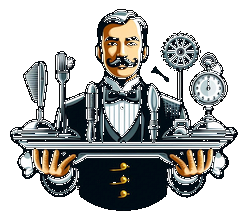
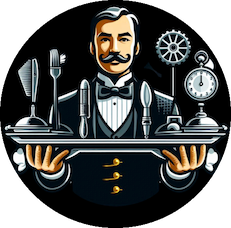
changement icone et correction pwa

diff --git a/public/sw.js b/public/sw.js
@@ -1,0 +1,145 @@
+// Service Worker pour À Votre Service PWA
+// Version: 1.0.0
+
+const CACHE_NAME = 'a-votre-service-v1';
+const urlsToCache = [
+  '/',
+  '/index.html',
+  '/manifest.json',
+  '/favicon-butler.ico',
+  '/images/majordome-hero.png',
+  '/icons/icon-192.png',
+  '/icons/icon-512.png'
+];
+
+// Installation du Service Worker
+self.addEventListener('install', (event) => {
+  console.log('Service Worker: Installation en cours...');
+  
+  event.waitUntil(
+    caches.open(CACHE_NAME)
+      .then((cache) => {
+        console.log('Service Worker: Cache ouvert');
+        return cache.addAll(urlsToCache);
+      })
+      .then(() => {
+        console.log('Service Worker: Ressources mises en cache');
+        // Force l'activation immédiate du nouveau service worker
+        return self.skipWaiting();
+      })
+      .catch((error) => {
+        console.error('Service Worker: Erreur lors de la mise en cache:', error);
+      })
+  );
+});
+
+// Activation du Service Worker
+self.addEventListener('activate', (event) => {
+  console.log('Service Worker: Activation en cours...');
+  
+  event.waitUntil(
+    caches.keys().then((cacheNames) => {
+      return Promise.all(
+        cacheNames.map((cacheName) => {
+          // Supprimer les anciens caches
+          if (cacheName !== CACHE_NAME) {
+            console.log('Service Worker: Suppression de l\'ancien cache:', cacheName);
+            return caches.delete(cacheName);
+          }
+        })
+      );
+    }).then(() => {
+      console.log('Service Worker: Activation terminée');
+      // Prendre le contrôle de tous les clients immédiatement
+      return self.clients.claim();
+    })
+  );
+});
+
+// Interception des requêtes réseau
+self.addEventListener('fetch', (event) => {
+  // Stratégie Cache First pour les ressources statiques
+  if (event.request.destination === 'image' || 
+      event.request.destination === 'script' || 
+      event.request.destination === 'style' ||
+      event.request.url.includes('/icons/') ||
+      event.request.url.includes('/images/')) {
+    
+    event.respondWith(
+      caches.match(event.request)
+        .then((response) => {
+          // Retourner la ressource du cache si disponible
+          if (response) {
+            return response;
+          }
+          
+          // Sinon, récupérer depuis le réseau et mettre en cache
+          return fetch(event.request).then((response) => {
+            // Vérifier si la réponse est valide
+            if (!response || response.status !== 200 || response.type !== 'basic') {
+              return response;
+            }
+            
+            // Cloner la réponse car elle ne peut être consommée qu'une fois
+            const responseToCache = response.clone();
+            
+            caches.open(CACHE_NAME)
+              .then((cache) => {
+                cache.put(event.request, responseToCache);
+              });
+            
+            return response;
+          });
+        })
+        .catch(() => {
+          // En cas d'erreur, retourner une réponse par défaut si nécessaire
+          console.log('Service Worker: Erreur lors de la récupération de:', event.request.url);
+        })
+    );
+  } else {
+    // Stratégie Network First pour les autres requêtes (API, HTML, etc.)
+    event.respondWith(
+      fetch(event.request)
+        .then((response) => {
+          // Mettre en cache les réponses HTML réussies
+          if (response.status === 200 && event.request.destination === 'document') {
+            const responseToCache = response.clone();
+            caches.open(CACHE_NAME)
+              .then((cache) => {
+                cache.put(event.request, responseToCache);
+              });
+          }
+          return response;
+        })
+        .catch(() => {
+          // En cas d'échec réseau, essayer de servir depuis le cache
+          return caches.match(event.request)
+            .then((response) => {
+              if (response) {
+                return response;
+              }
+              // Si pas de cache disponible, retourner la page d'accueil pour les requêtes de navigation
+              if (event.request.destination === 'document') {
+                return caches.match('/');
+              }
+            });
+        })
+    );
+  }
+});
+
+// Gestion des messages du client
+self.addEventListener('message', (event) => {
+  if (event.data && event.data.type === 'SKIP_WAITING') {
+    self.skipWaiting();
+  }
+});
+
+// Notification de mise à jour disponible
+self.addEventListener('message', (event) => {
+  if (event.data && event.data.type === 'GET_VERSION') {
+    event.ports[0].postMessage({ version: CACHE_NAME });
+  }
+});
+
+console.log('Service Worker: Chargé et prêt pour À Votre Service PWA');

diff --git a/src/main.tsx b/src/main.tsx
@@ -2,4 +2,32 @@ import { createRoot } from 'react-dom/client'
 import App from './App.tsx'
 import './index.css'
 
+// Enregistrement du Service Worker pour PWA
+if ('serviceWorker' in navigator) {
+  window.addEventListener('load', () => {
+    navigator.serviceWorker.register('/sw.js')
+      .then((registration) => {
+        console.log('✅ Service Worker enregistré avec succès:', registration.scope);
+        
+        // Vérifier les mises à jour du service worker
+        registration.addEventListener('updatefound', () => {
+          const newWorker = registration.installing;
+          if (newWorker) {
+            newWorker.addEventListener('statechange', () => {
+              if (newWorker.state === 'installed' && navigator.serviceWorker.controller) {
+                console.log('🔄 Nouvelle version du Service Worker disponible');
+                // Optionnel: notifier l'utilisateur qu'une mise à jour est disponible
+              }
+            });
+          }
+        });
+      })
+      .catch((error) => {
+        console.error('❌ Échec de l\'enregistrement du Service Worker:', error);
+      });
+  });
+} else {
+  console.warn('⚠ Service Worker non supporté par ce navigateur');
+}
+
 createRoot(document.getElementById("root")!).render(<App />);

diff --git a/CHANGELOG.md b/CHANGELOG.md
@@ -4,6 +4,13 @@
 ## [Unreleased]
 
 ### Added
+- **PWA Installation Fix**: Resolved Progressive Web App installation issues in Chrome
+  - **Service Worker Implementation**: Added comprehensive service worker (sw.js) with caching strategies for offline functionality
+  - **Service Worker Registration**: Integrated service worker registration in main.tsx with update detection
+  - **Manifest Icons Correction**: Fixed PWA icons in manifest.json to reference correct favicon-butler.ico
+  - **Cache Strategies**: Implemented Cache First for static resources and Network First for dynamic content
+  - **Installation Support**: PWA now meets all Chrome installation requirements (HTTPS, service worker, valid manifest)
+
 - **Icon Consistency Fix**: Corrected all application icons to use the butler image consistently
   - **Sidebar Logo**: Replaced emoji 🛠 in sidebar header with butler image for professional appearance
   - **Favicon Configuration**: Added explicit favicon link in index.html to ensure proper browser tab icon display
